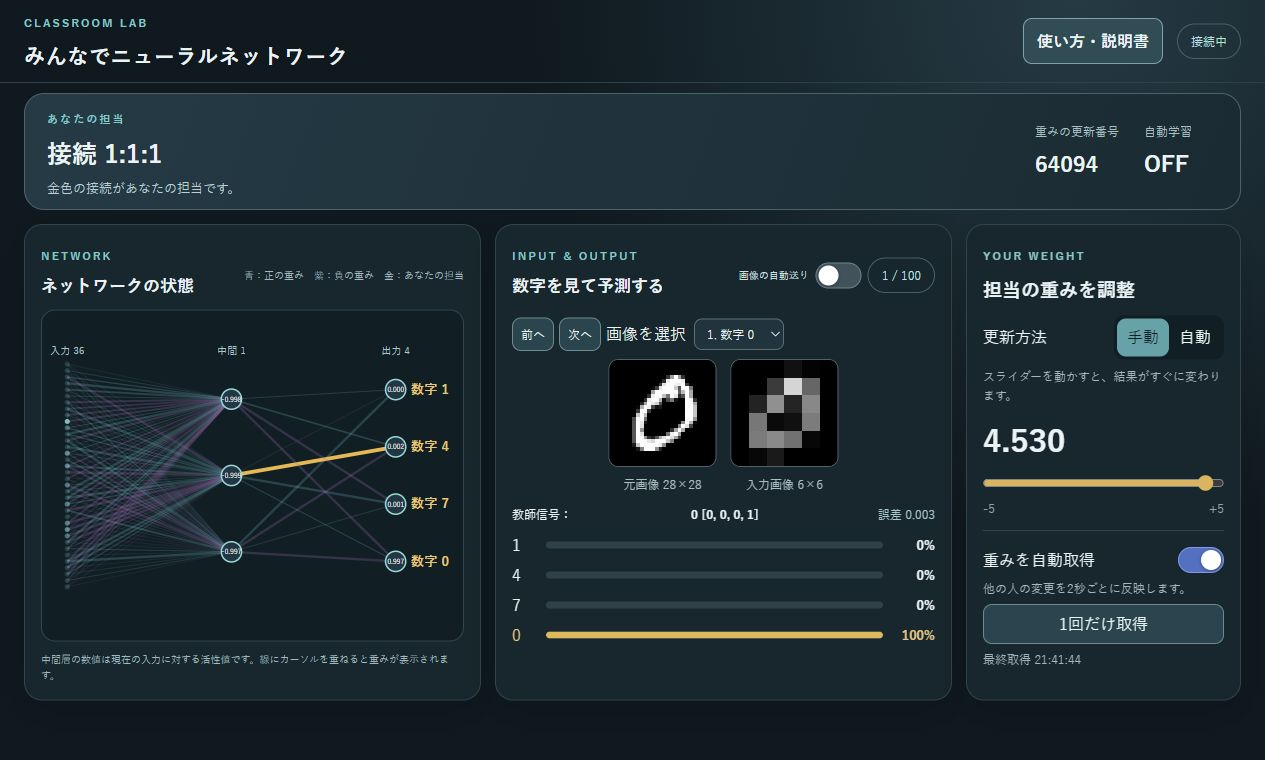
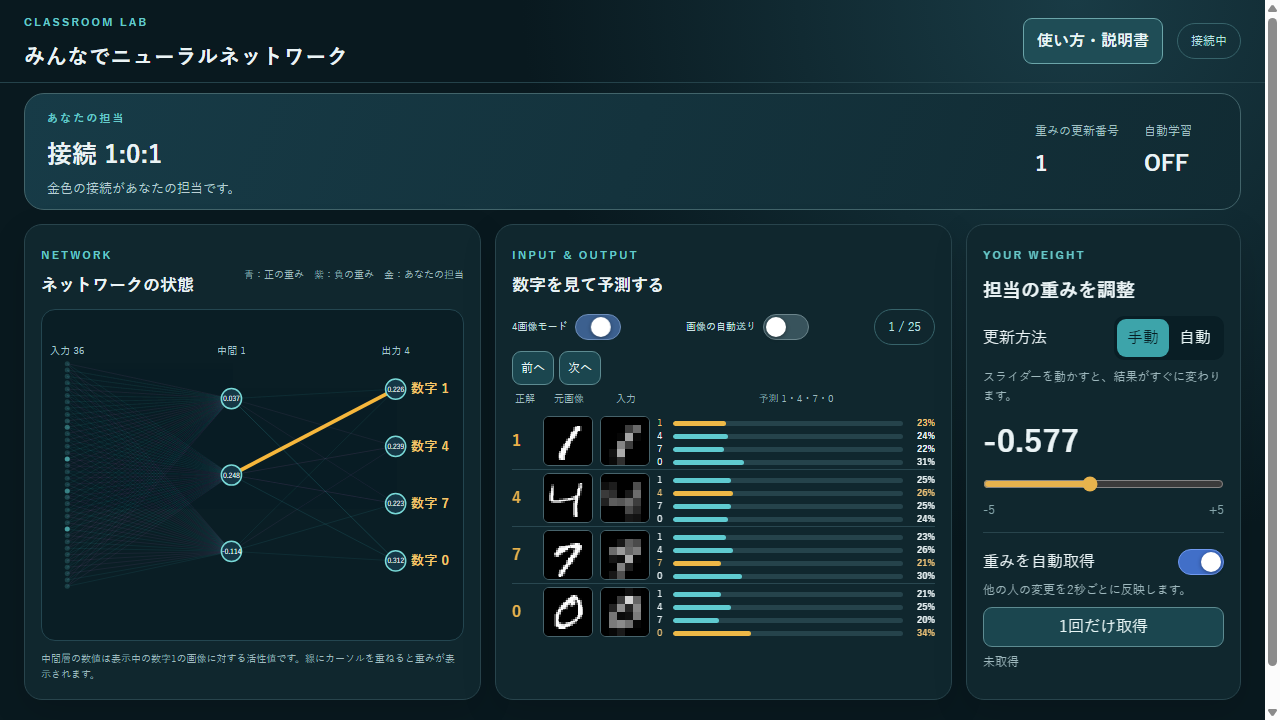
docs: update student screenshot for four-image mode

diff --git a/public/style.css b/public/style.css
@@ -34,5 +34,5 @@ input[type=checkbox]:disabled{opacity:.45;cursor:not-allowed}
 .mini-output-row strong{text-align:right;font-size:9px}
 .mini-output-row.correct{color:#efc479}
 .mini-output-row.correct .bar i{background:#edb947}
-@media(min-width:1100px){.prediction-card .section-head{display:block}.prediction-card .sample-head-actions{justify-content:space-between;margin:5px 0}.prediction-card .sample-auto-control{font-size:10px}.prediction-card .sample-controls{margin:6px 0}.prediction-card .four-image-row,.prediction-card .four-column-head{grid-template-columns:16px 52px 52px minmax(0,1fr);gap:5px}.prediction-card .four-image-row{padding:2px 0}.prediction-card .four-image-row canvas{width:50px;height:50px}.prediction-card .four-image-list{gap:2px}}
+@media(min-width:1100px){.prediction-card .section-head{display:block}.prediction-card .sample-head-actions{justify-content:space-between;margin:5px 0}.prediction-card .sample-auto-control{font-size:10px}.prediction-card .sample-controls{margin:6px 0}.prediction-card .four-image-row,.prediction-card .four-column-head{grid-template-columns:26px 52px 52px minmax(0,1fr);gap:5px}.prediction-card .four-image-row{padding:2px 0}.prediction-card .four-image-row canvas{width:50px;height:50px}.prediction-card .four-image-list{gap:2px}}
 @media(max-width:650px){.four-image-row,.four-column-head{grid-template-columns:18px 44px 44px minmax(0,1fr);gap:4px}.four-image-row canvas{width:44px;height:44px}.prediction-card .sample-head-actions{justify-content:flex-start}}
